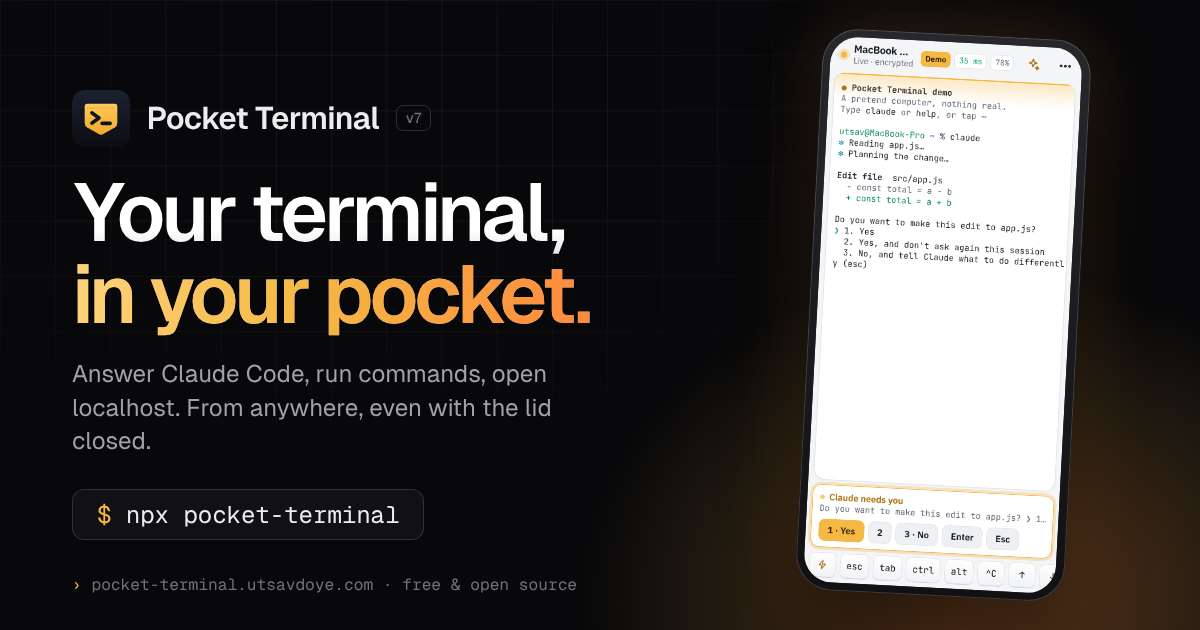
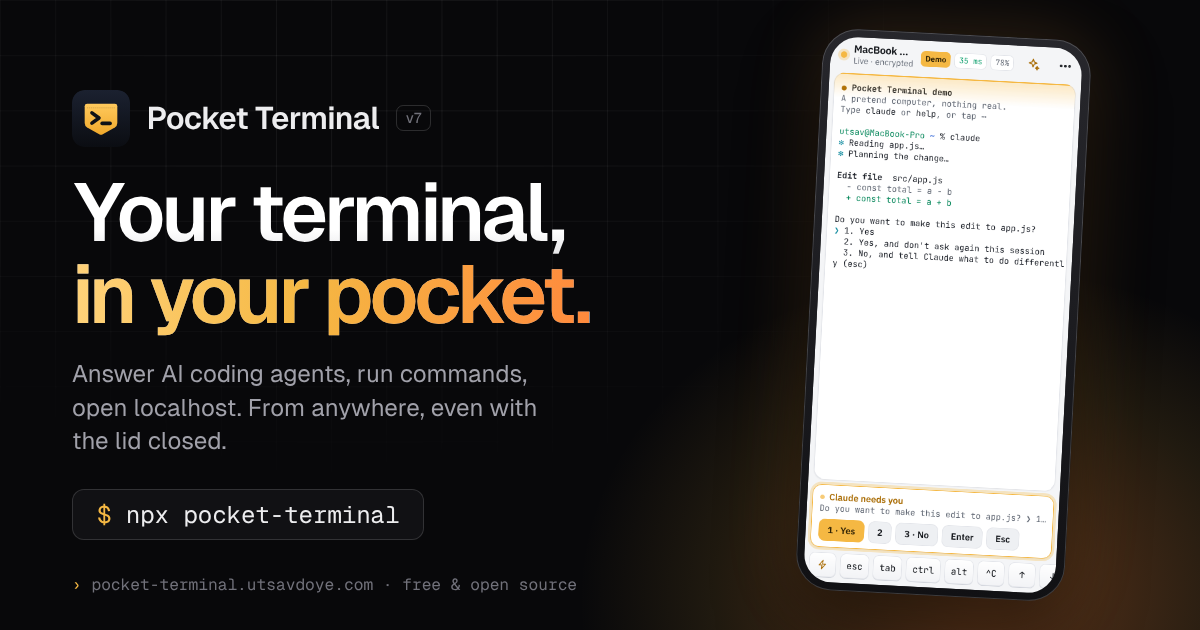
Speak to all AI coding agents, not just Claude Code

Changed region(s): [[0.0617, 0.573, 0.4625, 0.6635], [0.0617, 0.6937, 0.185, 0.7238]]

diff --git a/docs/index.html b/docs/index.html
@@ -4,9 +4,9 @@
 <meta charset="utf-8">
 <meta name="viewport" content="width=device-width, initial-scale=1, viewport-fit=cover">
 <meta http-equiv="Content-Security-Policy" content="default-src 'self'; script-src 'self' https://gc.zgo.at; style-src 'self'; font-src 'self'; img-src 'self' data: https://pocket-terminal.goatcounter.com; media-src 'self'; connect-src 'self' https://api.github.com https://api.npmjs.org https://pocket-terminal.goatcounter.com; base-uri 'none'; form-action 'none'">
-<title>Pocket Terminal: control your laptop's terminal from your phone, even with the lid closed</title>
-<meta name="description" content="Answer Claude Code, run commands and open localhost on your laptop from your phone, from any network, even with the lid closed. Free, open source, end-to-end encrypted. macOS, Windows, Linux.">
-<meta name="keywords" content="remote terminal from phone, claude code on phone, mobile terminal, ssh alternative, access laptop from phone, localhost on phone, open source, webrtc terminal">
+<title>Pocket Terminal: your laptop's terminal and AI agents on your phone, even with the lid closed</title>
+<meta name="description" content="Answer AI coding agents like Claude Code, Codex and Gemini CLI, run commands and open localhost on your laptop from your phone, from any network, even with the lid closed. Free, open source, end-to-end encrypted. macOS, Windows, Linux.">
+<meta name="keywords" content="remote terminal from phone, ai coding agent on phone, claude code on phone, codex cli on phone, mobile terminal, ssh alternative, access laptop from phone, localhost on phone, open source, webrtc terminal">
 <link rel="canonical" href="https://pocket-terminal.utsavdoye.com/">
 <meta name="theme-color" content="#08080A">
 <meta name="color-scheme" content="dark">
@@ -23,7 +23,7 @@
 <meta property="og:image:alt" content="Pocket Terminal: a terminal on a laptop and the phone that answers it">
 <meta name="twitter:card" content="summary_large_image">
 <meta name="twitter:title" content="Pocket Terminal: your laptop's terminal, in your pocket">
-<meta name="twitter:description" content="Answer Claude Code from your phone, even with the lid closed. Free and open source.">
+<meta name="twitter:description" content="Answer your AI coding agents from your phone, even with the lid closed. Free and open source.">
 <meta name="twitter:image" content="https://pocket-terminal.utsavdoye.com/og.png">
 <link rel="icon" href="favicon.ico" sizes="any">
 <link rel="icon" href="favicon.svg" type="image/svg+xml">
@@ -38,7 +38,7 @@
 {"@type":"FAQPage","mainEntity":[
 {"@type":"Question","name":"Is Pocket Terminal free? Is there a server?","acceptedAnswer":{"@type":"Answer","text":"Free and open source (MIT). There is no server you run or pay for, and none that can read your data. A free public message board passes a few encrypted hello notes so the two devices can find each other; your live terminal goes directly between them."}},
 {"@type":"Question","name":"How is it different from SSH or Tailscale?","acceptedAnswer":{"@type":"Answer","text":"Those assume your computer is awake and reachable. Pocket Terminal is built around a laptop that is asleep in your bag: it wakes itself briefly to check for work, runs it, replies, and sleeps again. Nothing to set up on your router, no account."}},
-{"@type":"Question","name":"Can it run Claude Code with my laptop closed?","acceptedAnswer":{"@type":"Answer","text":"Yes. While a program is still working, the computer stays awake (on battery too, above 20%, for up to 2 hours after you last used it). When the agent stops to ask, your phone buzzes with the question. Tap it and answer."}},
+{"@type":"Question","name":"Can AI coding agents keep running with my laptop closed?","acceptedAnswer":{"@type":"Answer","text":"Yes. While a program is still working, the computer stays awake (on battery too, above 20%, for up to 2 hours after you last used it). When an agent like Claude Code, Codex or Gemini CLI stops to ask, your phone buzzes with the question. Tap it and answer."}},
 {"@type":"Question","name":"What does it cost in battery?","acceptedAnswer":{"@type":"Answer","text":"Each check-in is a few seconds awake. Overnight that is typically a few percent. It never stays awake below 20% and stops waking below 10%."}},
 {"@type":"Question","name":"I lost my phone. What now?","acceptedAnswer":{"@type":"Answer","text":"On your computer run npx pocket-terminal list, then npx pocket-terminal remove followed by the number. That phone is locked out within seconds, and its PIN-locked key is useless."}},
 {"@type":"Question","name":"Which systems does it work on?","acceptedAnswer":{"@type":"Answer","text":"Computer: macOS, Windows 10 and 11, and Linux. Phone: iPhone and Android, as an app you add to your home screen."}}
@@ -66,7 +66,7 @@
     <div class="wrap">
       <a class="pill" href="https://github.com/utsavdoye/pocket-terminal/releases"><span class="tag">NEW</span>v7: localhost on your phone <span class="arr">→</span></a>
       <h1>Your terminal,<br><span class="accent">in your pocket.</span></h1>
-      <p class="lede">Answer <strong>Claude Code</strong>, run commands and open <strong>localhost</strong> on your laptop from your phone. From any network, <strong>even with the lid closed</strong>. Free, open source, end-to-end encrypted.</p>
+      <p class="lede">Answer your <strong>AI coding agents</strong>, run commands and open <strong>localhost</strong> on your laptop from your phone. From any network, <strong>even with the lid closed</strong>. Free, open source, end-to-end encrypted.</p>
       <div class="cta">
         <a class="btn btn-amber" href="#install">Install in one line <span class="arr">→</span></a>
         <a class="btn btn-ghost" href="app/#demo">Try the live demo</a>
@@ -77,7 +77,7 @@
 
     <div class="stage">
       <div class="stage-grid">
-        <div class="win" role="img" aria-label="A terminal on the laptop: Claude Code asks permission to edit a file, the phone answers, and the tests pass">
+        <div class="win" role="img" aria-label="A terminal on the laptop: an AI coding agent asks permission to edit a file, the phone answers, and the tests pass">
           <div class="win-bar">
             <div class="lights"><i></i><i></i><i></i></div>
             <div class="win-title">utsav@macbook: ~/app (zsh) · 96×24</div>
@@ -86,7 +86,7 @@
           <pre class="term" id="heroTerm" aria-hidden="true"></pre>
         </div>
         <div class="phone">
-          <div class="notif" id="heroNotif" aria-hidden="true"><img src="app/icon-192.png" alt="" width="34" height="34"><div><b>Claude needs you · app</b><span>Do you want to make this edit to auth.ts? Tap to answer.</span></div><small>now</small></div>
+          <div class="notif" id="heroNotif" aria-hidden="true"><img src="app/icon-192.png" alt="" width="34" height="34"><div><b>Your agent needs you · app</b><span>Do you want to make this edit to auth.ts? Tap to answer.</span></div><small>now</small></div>
           <div class="screen"><video autoplay muted loop playsinline preload="metadata" poster="media/poster.webp" aria-label="Demo on the phone: an AI agent asks for permission, one tap answers it, then a local website opens"><source src="media/demo.mp4" type="video/mp4"><source src="media/demo.webm" type="video/webm"></video></div>
         </div>
       </div>
@@ -101,7 +101,7 @@
       </div>
       <div class="works">
         <p>Works with whatever runs in your terminal</p>
-        <ul><li>Claude Code</li><li>Codex CLI</li><li>Aider</li><li>Gemini CLI</li><li>npm run dev</li><li>python train.py</li><li>docker</li><li>psql</li></ul>
+        <ul><li>Claude Code</li><li>Codex CLI</li><li>Gemini CLI</li><li>Aider</li><li>Cursor CLI</li><li>OpenCode</li><li>npm run dev</li><li>python train.py</li><li>docker</li><li>psql</li></ul>
       </div>
     </div>
   </section>
@@ -117,8 +117,8 @@
         <article class="card wide" data-path="~/features/ai-agents"><span class="num">01 / AI AGENTS</span>
           <div class="ico"><svg viewBox="0 0 24 24"><path d="M12 3l1.8 5.2L19 10l-5.2 1.8L12 17l-1.8-5.2L5 10l5.2-1.8z"/></svg></div>
           <h3>Answer AI agents with one tap</h3>
-          <p>Claude Code, Codex or Aider keep working while you're out. When one asks <em>"Do you want to proceed?"</em> your phone buzzes with the question.</p>
-          <div class="snippet"><span class="a">●</span> Claude needs you · app
+          <p>Claude Code, Codex, Gemini CLI, Aider or any other agent keeps working while you're out. When one asks <em>"Do you want to proceed?"</em> your phone buzzes with the question.</p>
+          <div class="snippet"><span class="a">●</span> codex needs you · app
   Do you want to make this edit to auth.ts?
   <span class="g">❯ 1. Yes</span>   2. No</div>
         </article>
@@ -320,7 +320,7 @@
       </div>
       <details><summary>Is it really free? Is there a server?</summary><p>Free and open source (MIT). There's no server you run or pay for, and none that can read your data. A free public message board passes a few encrypted "hello" notes so the two devices can find each other; your live terminal goes directly between them.</p></details>
       <details><summary>How is it different from SSH or Tailscale?</summary><p>Those assume your computer is awake and reachable. Pocket Terminal is built around a laptop that's asleep in your bag: it wakes itself briefly to check for work, runs it, replies, and sleeps again. Nothing to set up on your router, no account.</p></details>
-      <details><summary>Can it run Claude Code with my laptop closed?</summary><p>Yes. While a program is still working, the computer stays awake (on battery too, above 20%, for up to 2 hours after you last used it). When the agent stops to ask, your phone buzzes with the question. Tap it and answer.</p></details>
+      <details><summary>Can AI coding agents keep running with my laptop closed?</summary><p>Yes. While a program is still working, the computer stays awake (on battery too, above 20%, for up to 2 hours after you last used it). When an agent like Claude Code, Codex or Gemini CLI stops to ask, your phone buzzes with the question. Tap it and answer.</p></details>
       <details><summary>What does it cost in battery?</summary><p>Each check-in is a few seconds awake. Overnight that's typically a few percent. It never stays awake below 20% and stops waking below 10%.</p></details>
       <details><summary>I lost my phone. What now?</summary><p>On your computer run <code>npx pocket-terminal list</code>, then <code>npx pocket-terminal remove &lt;number&gt;</code>. That phone is locked out within seconds, and its PIN-locked key is useless.</p></details>
       <details><summary>Which systems does it work on?</summary><p>Computer: macOS, Windows 10/11, and Linux (laptops get the lid-closed features; servers simply stay awake). Phone: iPhone and Android, as an app you add to your home screen.</p></details>

diff --git a/docs/site.js b/docs/site.js
@@ -33,15 +33,16 @@
     $$('.card, .shots figure, .step, .box, .checks li, details, .tablewrap, .install').forEach(function (el, i) { el.classList.add('reveal'); el.style.transitionDelay = (i % 3) * 70 + 'ms'; io.observe(el); });
   }
 
-  // ---------- the hero: a Claude Code session on a laptop with the lid shut ----------
+  // ---------- the hero: an AI coding agent on a laptop with the lid shut (a different agent each loop) ----------
   var term = $('#heroTerm'), notif = $('#heroNotif');
   if (term) {
     var P = '<span class="p">utsav@macbook</span> <span class="d">~/app</span> % ';
+    var agents = [['claude', 'Claude'], ['codex', 'Codex'], ['gemini', 'Gemini']], ai = 0;
     var script = [
-      ['type', 'claude "fix the failing login test"'],
+      ['type', '@ "fix the failing login test"'],
       ['out', '', 250],
-      ['out', '<span class="a">✻</span> Reading src/auth.ts', 600],
-      ['out', '<span class="a">✻</span> Running npm test  <span class="del">1 failing</span>', 800],
+      ['out', '<span class="a">●</span> Reading src/auth.ts', 600],
+      ['out', '<span class="a">●</span> Running npm test  <span class="del">1 failing</span>', 800],
       ['out', '', 200],
       ['out', '<span class="b">Edit</span> src/auth.ts', 300],
       ['out', '<span class="del">-  if (user = null) return</span>', 160],
@@ -49,7 +50,7 @@
       ['out', '', 160],
       ['out', 'Do you want to make this edit to auth.ts?', 260],
       ['out', '<span class="sel">❯ 1. Yes</span>', 120],
-      ['out', '  2. No, tell Claude what to do instead', 120],
+      ['out', '  2. No, tell @@ what to do instead', 120],
       ['out', '', 100],
       ['ask', '<span class="dim">  waiting… lid closed, phone notified</span>', 2600],
       ['out', '<span class="dim">  answered "1" from phone</span>', 700],
@@ -59,24 +60,28 @@
     ];
     var lines = [], typed = '', CUR = '<span class="cursor"></span>';
     var draw = function (prompt) { term.innerHTML = lines.join('\n') + (prompt ? (lines.length ? '\n' : '') + P + typed + CUR : ''); };
+    var title = notif && notif.querySelector('b');
     var run = function () {
+      var ag = agents[ai++ % agents.length];
+      var fill = function (t) { return t.replace('@@', ag[1]).replace('@ ', ag[0] + ' '); };
+      if (title) title.textContent = ag[1] + ' needs you · app';
       lines = []; typed = ''; if (notif) notif.classList.remove('show');
       var i = 0;
       var step = function () {
         var s = script[i++]; if (!s) return;
         if (s[0] === 'type') {
-          var k = 0, txt = s[1];
+          var k = 0, txt = fill(s[1]);
           (function t() { typed = txt.slice(0, ++k); draw(true); if (k < txt.length) setTimeout(t, 35 + Math.random() * 45); else setTimeout(function () { lines.push(P + txt); typed = ''; draw(false); step(); }, 450); })();
         } else if (s[0] === 'ask') {
           lines.push(s[1]); draw(false); if (notif) notif.classList.add('show'); setTimeout(function () { lines.pop(); if (notif) notif.classList.remove('show'); step(); }, s[2]);
         } else if (s[0] === 'done') {
           draw(true); setTimeout(run, s[2]);
-        } else { lines.push(s[1]); draw(false); setTimeout(step, s[2]); }
+        } else { lines.push(fill(s[1])); draw(false); setTimeout(step, s[2]); }
       };
       step();
     };
     if (reduce) { // a still frame instead of the animation
-      lines = [P + 'claude "fix the failing login test"', '', '<span class="a">✻</span> Running npm test  <span class="del">1 failing</span>', '', 'Do you want to make this edit to auth.ts?', '<span class="sel">❯ 1. Yes</span>', '  2. No, tell Claude what to do instead'];
+      lines = [P + 'claude "fix the failing login test"', '', '<span class="a">●</span> Running npm test  <span class="del">1 failing</span>', '', 'Do you want to make this edit to auth.ts?', '<span class="sel">❯ 1. Yes</span>', '  2. No, tell the agent what to do instead'];
       draw(false); if (notif) notif.classList.add('show');
     } else if ('IntersectionObserver' in window) {
       var started = false;

diff --git a/brand/banner.html b/brand/banner.html
@@ -21,7 +21,7 @@ p{font-size:2vw;color:#A1A1AA;margin:0 0 5vh;line-height:1.4;max-width:42vw}
 </style></head><body>
 <div class="l"><div class="brand"><img src="mark.svg">Pocket Terminal<span>v7</span></div>
 <h1>Your terminal,<br><em>in your pocket.</em></h1>
-<p>Answer Claude Code, run commands, open localhost. From anywhere, even with the lid closed.</p>
+<p>Answer AI coding agents, run commands, open localhost. From anywhere, even with the lid closed.</p>
 <div class="cmd"><b>$</b>npx pocket-terminal</div></div>
 <div class="phone"><img src="../docs/screenshots/agent.png"></div>
 <div class="url"><b>›</b> pocket-terminal.utsavdoye.com · free &amp; open source</div>

diff --git a/README.md b/README.md
@@ -22,7 +22,7 @@
 **Pocket Terminal** puts your computer's terminal on your phone. It works from any network, and it
 keeps working when the laptop is asleep in your bag with the lid closed.
 
-Start Claude Code, close the laptop, leave. When the agent stops to ask *"Do you want to make this
+Start your AI coding agent (Claude Code, Codex, Gemini CLI, Aider or any other), close the laptop, leave. When the agent stops to ask *"Do you want to make this
 edit?"*, your phone buzzes and you answer with one tap. The same connection opens your
 `localhost:3000`, moves files, and tells you when a long build finishes.
 
@@ -40,7 +40,7 @@ npx pocket-terminal
 ## Features
 
 **For AI agents**
-- Phone notification when Claude Code, Codex, Aider or any program asks a question, with one-tap answers.
+- Phone notification when an AI agent (Claude Code, Codex, Gemini CLI, Aider…) or any program asks a question, with one-tap answers.
 - "It's done" alerts when a build, download or training run finishes or goes quiet.
 - The computer stays awake while a program is working, even on battery with the lid closed.
 
@@ -56,7 +56,7 @@ npx pocket-terminal
 - Ask in plain English ("free up port 3000") and get the right command for your system, explained, with a safety label. Works offline for 70+ common commands; optional AI with your own key.
 
 <p align="center">
-  <img src="docs/screenshots/agent.png" alt="Claude Code asks for permission and the phone shows one-tap answers" width="23%">
+  <img src="docs/screenshots/agent.png" alt="An AI coding agent asks for permission and the phone shows one-tap answers" width="23%">
   <img src="docs/screenshots/terminals.png" alt="Running terminals and a view-only share link" width="23%">
   <img src="docs/screenshots/localhost.png" alt="The computer's localhost:3000 open on the phone" width="23%">
   <img src="docs/screenshots/files.png" alt="Files: download from the computer, upload from the phone" width="23%">
